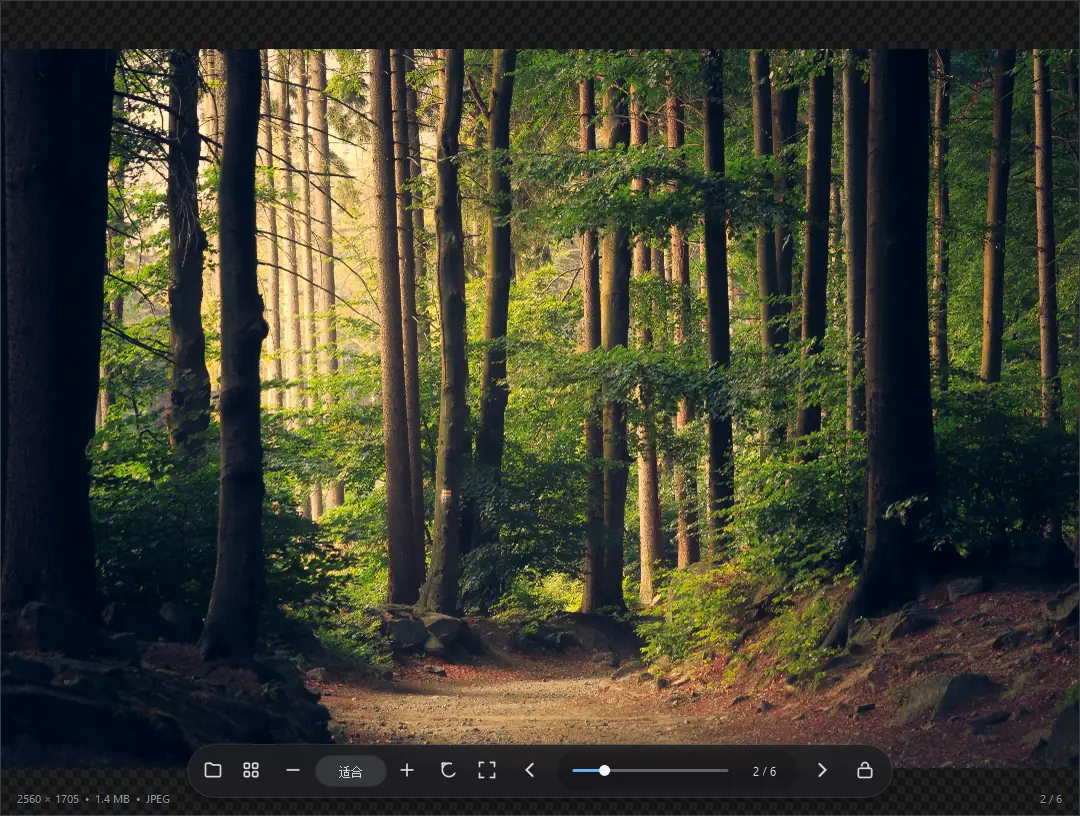
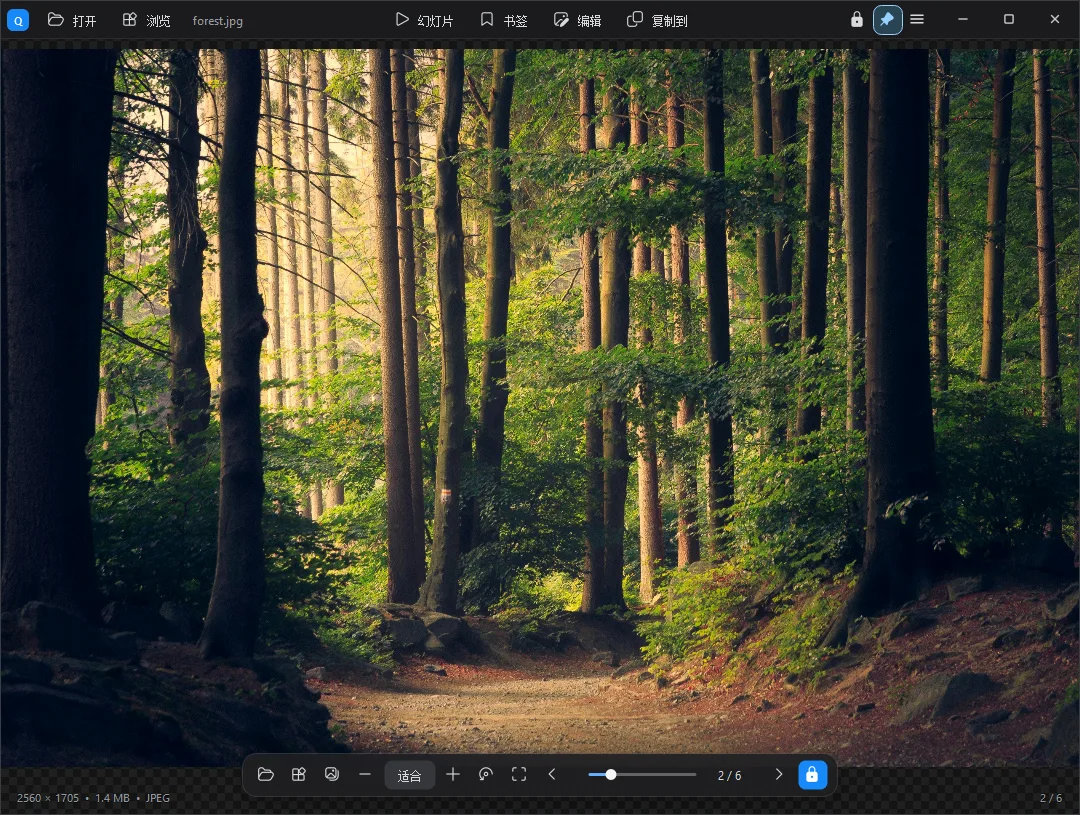
docs: README 展示图更新到 0.5.6 界面
- docs/screenshots 11 张全部用 0.5.6 程序重拍（Qt 自渲染，Unsplash 同套照片）
- 顶栏 Fluent 新图标、底栏统一投影、图层按钮、设置 9 页导航等新 UI 全部体现
- SCREENSHOTS.md 版本 0.5.3→0.5.6，设置分类数 12→9 中英同步
- 纯文档改动，不动 tag v0.5.6 与已发布产物

diff --git a/docs/SCREENSHOTS.md b/docs/SCREENSHOTS.md
@@ -2,7 +2,7 @@
 
 [← 返回 README](../README.md)
 
-> 本页图集基于 **QuikView 0.5.3** 界面（2026-11-17 重拍）。
+> 本页图集基于 **QuikView 0.5.6** 界面（2026-11-21 重拍，tag `v0.5.6`）。
 
 以下截图全部由 **QuikView 自身渲染**（`--screenshot` 走 Qt 内部绘制，不是系统抓屏），
 所以不受显示器 DPI 缩放影响，和你在屏幕上看到的一致。
@@ -108,11 +108,11 @@ Originals are kept by default.
 
 ## 9. 设置 · Settings
 
-左侧十二个分类，右侧就地生效的选项：一般、浏览、外观、图像处理、格式关联、键盘、鼠标、书签、上下文菜单、查看器右键菜单、杂项、语言（另有「关于 QuikView」入口）。
+左侧九个分类，右侧就地生效的选项：通用、浏览、外观与显示、图像处理、键盘、鼠标与滚轮、查看器右键菜单、Windows 集成、扩展（另有「关于 QuikView」入口）。
 
-Twelve categories on the left, options on the right: general, browsing, appearance, image
-processing, file associations, keyboard, mouse, bookmarks, context menu, viewer right-click
-menu, misc, language (plus an About entry).
+Nine categories on the left, options on the right: general, browsing, appearance & display, image
+processing, keyboard, mouse & wheel, viewer right-click menu, Windows integration, extensions
+(plus an About entry).
 
 ![设置](screenshots/09-settings.webp)
 
